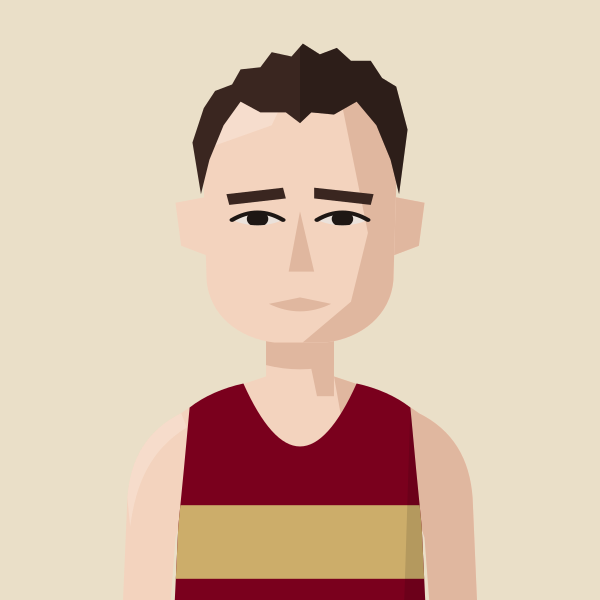
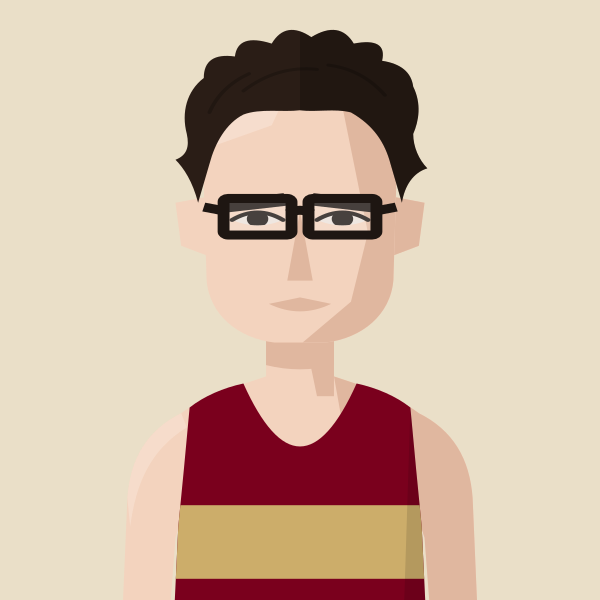
Trevor Hart: redrawn with thick dark hair and thick-rimmed glasses
Claude-Session: https://claude.ai/code/session_01MgmDWhFqnSSnP4iBLKXUZC

Changed region(s): [[0.3, 0.03, 0.72, 0.48]]

diff --git a/files/index.html b/files/index.html
@@ -884,7 +884,7 @@ const portraitFile=(name,club)=>{const k=normalizeNameForCompare(name||'').repla
 const portraitClubOf=(name,clubs)=>{for(const c of clubs||[]){if(c&&portraitFile(name,c))return c;}return null;}; /* first of these clubs we have a portrait for */
 // Athlete header figure: superstar portrait if we have one, else a grey runner in the club vest, else the plain vest icon
 // Changes whenever any portrait changes (set by tools/build_og.py), so browsers fetch fresh images instead of old cached ones
-const PORTRAIT_V='e6ce5789';const PORTRAIT_WOMEN='abbey-brooke,abbie-bulbulian,adele-prince,aimee-hargreaves,aisling-ahern,alex-brown,alex-gandee,alex-marginean,alex-miller,alexa-parker,alexandra-barbour,alice-braham,alice-bridger-morales,alice-crane,alice-martin,alice-reed,alice-smith,alison-purnell,alison-thomson,amelia-pettitt,amy-clements,andrea-barber,anika-schwarze-chintapatla,anna-garnier,anna-garnier-hw,anna-sharp,annabel-hobday,annabelle-hadlow,anne-hegvold,annmarie-seymour,ava-mcandie,becky-briggs,bethan-goddard,bethanie-murray,bethany-brown,betsy-griffiths,billie-mcclosky,camilla-barden,caoimhe-nic-fhogartaigh,carolyne-baxter,catherine-bryson,catherine-eastham,catherine-kandie,cathy-ansell,charlotte-griffiths,chloe-beckett,chloe-tighe,chrissie-wellington,claire-grima,clara-pettit,clare-elms,clare-pauzers,dillan-quinn,dorchie-cockerell,eilidh-hide,elinor-skinner,eliza-grant,elizabeth-apsley,elizabeth-stavreski,ella-fennelly,ella-king-powrie,ella-may-hards,ella-newton,ellen-weir,ellie-brown,ellie-freeden,eloise-bull,emilie-arnoux,emily-barrett,emily-bradley,emily-lowery,emily-robbins,emma-bond,emma-gordon,emma-howsham,emma-lord,emma-rowland,estle-viljoen,evie-warren,felicity-cole,felicity-harrison,felicity-hayward,fi-maddocks,fiona-de-mauny,florence-wiggins,gabby-collison,gabriel-reynolds,gemma-newport,genevieve-blanch,georgia-curry,georgie-bruinvels,georgie-fenn,georgie-furze,georgie-grgec,gina-galbraith,grace-leyland,grace-richardson,hannah-edwards,hannah-english,heather-statham,heather-statham-cc,helena-corbin,helena-keenan,holly-nixon,holly-pan,imogen-mackie,imogen-wolsey,iona-cousland,isabel-bradley,isabel-brinsden,isabel-hodder,isabelle-pickett,jennifer-nandi,jennifer-smith,jess-reed,jess-saunders,jess-winfield,jessica-davies,jessica-lowe,jodie-favell,jon-hobbs,josephine-rhodes,julia-bleasdale,julia-wedmore,juliet-hodder,jurgita-levertaviciute,justine-lynch,karen-fenner,karen-xiang,karina-box,kate-axford,kate-williams,kathy-sharpe,katie-ellen-french,katie-good,katie-snowden,katy-hedgethorne,kitty-shepherd-cross,kristina-popadich,lara-bromilow,lara-mangan,laura-goodson,laura-miles,lauren-major,lea-adamson,lily-newton,lisa-bailey,lisa-thomas,lisa-thomas-hw,lizzie-goldie-scot,louise-cooper,lucy-jones,lucy-macalister,lucy-peters,lydia-blackmore,lydia-gallyer-barnett,maddie-mastrolonardo,maddy-whitman,maeve-kenny,margaret-coogan,martina-conner,mary-james,mary-setyabule,matilde-lomba,megan-gildea,mel-wilkins,mhairi-hall,mimi-corden-lloyd,molly-oconnor,molly-smith,monika-gajek,naomi-lenane,natalie-beadle,natalie-seymour,natasha-lodge,niamh-thompson,nicky-hayes,nicola-cartlidge,nicola-douglas,nikki-haines,nikki-sturzaker,olivia-papaioannou,olivia-stillman,orna-mcginley,pamela-mchutchon,patricia-walker,patrizia-gnoato,penny-oliver,rachel-brown,rebecca-barrow,rebekah-edgar,ruby-carter,ruby-whyte-wilding,ruby-woolfe,sally-urquhart,sally-young,sally-young-slh,sam-whiting,samantha-munday,sarah-astin,sarah-dewhirst,sarah-grover,sarah-hanley,sarah-holt,sarah-murphy,sarah-palmer,sarah-palmer-ran,sarah-riceman,sarah-young,saron-haileselase,serena-carter,sophie-cowper,sophie-harris,sophie-hicks,sophie-tooley,stacey-ward,steph-hewitt,steph-mccall,steph-mccall-cc,steph-mccall-slh,steph-mitchell,suzanne-swaine,suze-spalding,suzie-harvey,suzy-whatmough,teresa-murphy,tilly-heaton,tilly-heaton-bel,tish-jones,vic-cartwright,vicky-clarke,victoria-barthelmess,victoria-buck,vikki-filsell,zoe-doyle,zoe-macdonald,zuzana-nemeckova';const PORTRAIT_MEN='aaron-wilson,abdulla-elsadig,adam-leane,adrian-major,adrien-royer,alan-black,alan-mead,alex-brecker,alex-bruce-littlewood,alex-gutteridge,alex-harris,alex-howard,alex-janiaud,alex-lee,alex-lennon,alex-mills,alex-milne,alex-morales,alex-robinson,alex-yee,alexander-marks,amittai-ben-israel,andrew-cumine,andrew-green,andrew-penney,andrew-perfect,andrew-simms,andrew-warburton,andrius-jaksevicius,andy-coley-maud,andy-coley-maud-cc,andy-fyfe,andy-north,andy-paton,andy-weir,angus-butler,angus-lamb,anisse-ismaili,arlo-ludewick,arne-dumez,arthur-peel,ashley-goncalves,barnaby-day,barry-collins,barry-sawyer,ben-clarke,ben-coughlan,ben-harding,ben-hurley,ben-ireland,ben-millar,ben-paviour,ben-pearce,ben-racle,ben-revill,ben-reynolds,ben-scott,ben-toomer,benedict-whitby,benjamin-hilson,bernie-ford,bill-kerr,bill-weller,bill-weller-wal,bob-harrison,bob-holt,bob-lunnon,bob-rayman,bob-smith,bradley-courtney-pinn,brandon-dewar,brian-gorman,brian-wilder,caleb-hathaway,callum-stewart,cameron-dockerill,cameron-reilly,carl-delaney,charles-herrington,charlie-dabbs,charlie-dickinson,charlie-eastaugh,charlie-manning,charlie-pickett,charlie-rogers,charlie-sandison,charlie-walker,charlie-wyllie,che-compton,chris-busaileh,chris-busaileh-hhh,chris-greenwood,chris-keavey,chris-moss,chris-steer,chris-threadgold,chris-warren,christian-lee,christopher-parker,clive-gilby,clive-shippen,colin-high,colin-pearson,conall-mcnally,conall-whelan,craig-ruddy,dame-dibaba,dan-cliffe,dan-pettitt,daniel-shaw,daniel-wolff,darren-mead,dave-beard,dave-beaver,dave-clarke,dave-glassborow,dave-holt,dave-taylor,david-anderson,david-bowers,david-grima,david-north,david-ogden,david-symons,david-walsh,david-williams,deron-fagan,dick-piotrowski,dimos-evangelidis,dom-nolan,dominic-kiralyfi,don-anderson,don-faircloth,don-maclean,doug-maughan,duncan-rimmer,dylan-evans,dylan-mitchard,ed-brewer,ed-catmur,ed-gibson,ed-mallett,ed-prickett,eddie-herridge,eddie-jodrell,eddie-rolls,edward-chuck,eoin-brady,eoin-molloy,ethan-mccolgan,falilou-kebe,findlay-dyer,finn-johnson,fintan-pearce,frank-tickner,frank-ward,fred-paget,fred-slemeck,freddie-hessian,garret-lee,gary-ribbons,gary-ribbons-ee,gary-staines,gary-staines-bel,gavin-eccles,geoff-biscoe,geoff-jerwood,geoff-north,george-cotton,george-gathercole,george-jackson,george-loxton,george-mallett,george-ogden,gerry-adams,gerry-north,glen-keegan,gordon-pearce,graham-macky,grenville-tuck,harrison-hayman,harry-guttridge,hector-revill,henry-hart,henry-silverstein,hugo-hewitt,huw-lobb,ian-acreman,ian-crowe-wright,ian-ellwood,ian-harkness,indy-barnes,isaac-lutaya,isaac-parker,jack-brotchie,jack-dickson,jack-dormer,jack-hampshire,jack-harrison,jack-hobden,jack-kavanagh,jack-millar,jack-ramm,jack-woods,jacob-brockmann,jake-simmonds,james-bartram,james-blackwood,james-bowler,james-estall,james-ewing,james-fox,james-hancock,james-harvey,james-hoad,james-kelly,james-mcmullan,james-murray,james-nutt,james-preston,james-roberts,james-stockings,james-ward,james-wootton,jamie-crowe,jamie-parkinson,jared-martin,jean-paul-wright,jeff-cunningham,jeremy-dempsey,jermaine-mays,jerry-watson,jim-allchin,jim-rimmer,joe-english,joe-hartley,john-baker,john-bicourt,john-bromley,john-davies,john-dear,john-foss,john-foxall,john-gilbert,john-gladwin,john-hutchins,john-kendall,john-kimaiyo,john-lee,john-lethbridge,john-mather,john-moore,john-roberts,john-sanderson,john-stow,john-sullivan,john-thresher,jon-pepper,jon-pepper-slh,jon-phillips,jon-solly,jonathan-cocker,jonathan-collier,jonathan-cornish,jonathan-ratcliffe,jonathan-tipper,jonny-neville,jonny-scott,jordan-weaver,josh-mitchell,josh-snow,josh-trigwell,jules-gevers,junior-galley,justin-chaston,justin-reid,kassa-tadesse,keith-newton,ken-penney,ken-penney-cro,kevin-nash,kevin-quinn,kevin-sturman,kieran-barnes,kieran-white,knut-hegvold,knut-hegvold-bel,larry-ryan,lawrence-avery,lee-lintern,lewis-lloyd,liam-burthem,lionel-mann,lloyd-kempson,luke-caldwell,mack-downie,malachi-byansi,marcello-bizio,marcelo-fortes,marco-mazzotta,mark-anderson,mark-miles,mark-sinclair,mark-tennyson,mark-waller,martin-dent,martin-duff,martin-lake,martin-lewington,martin-shore,mathew-speed,matt-chaston,matt-jones,matt-wood,matt-yates,matthew-edgar,matthew-houchell,matthew-thomas,matthew-varley,max-bloor,max-heyden,max-milarvie,max-nicholls,michael-baker,michael-mccarthy,mick-woods,mike-beevor,mike-boyle,mike-cummings,mike-farmery,mike-fuller,mike-hayes,mike-kortenray,mike-nouch,mohammed-ismail,monty-hudson,morgan-roberts,nathan-visick,neil-chisholm,neil-phillips,neil-speaight,neil-wilson,nic-lukies,nick-acfield,nick-altmann,nick-bester,nick-bester-hhh,nick-buckle,nick-bundle,nick-goolab,nick-lightfoot,nick-morris,nick-torry,noah-fernandez,norman-stairs,oli-carrington,oliver-carrington,oliver-fox,oliver-reynolds,oliver-young,ollie-foote,ollie-garrod,olly-buck,owen-hind,paddy-roddy,pancho-panchev,paskar-owor,pat-newell,patrick-mcdougall,paul-calver,paul-cheetham,paul-evans,paul-freary,paul-magner,paul-pollock,paul-sanderson,paul-sanderson-wok,pete-carton,pete-gardner,peter-clarke,peter-giles,peter-giles-thh,peter-lighting,phil-carstairs,phil-sanders,phil-sesemann,phil-swinburn,phil-wicks,phil-woodford-smith,raj-paranandi,ralph-street,ranjit-bhatia,ray-foley,reece-edwards,rhys-boorman,rian-mccawley,richard-ashe,richard-giles,richard-henderson,richard-langley,richard-mcdowell,richard-ollington,richard-partridge,richard-sun,richard-ward,rob-armstrong,rob-kelly,rob-tuer,robert-elphick,robert-laing,robert-norville,robert-peacock,robert-sesemann,robin-boon,robin-hudson,roger-alsop,roger-alsop-bel,roger-hackney,ron-clark,ron-linstead,ronan-tanguy,rory-mcmahon,rory-orsborn,ross-braden,ross-christie,rowan-board,rowan-crichton,russell-dessaix-chin,ryan-hickey,ryan-mccallister,sam-bramwell,sam-charlton,sam-gebreselassie,sam-haughian,sam-peters,sam-sommerville,sam-tyas,samuel-dames,samuel-wilcock,sean-cordon,sebastian-anthony,simon-baines,simon-coombes,simon-coppard,simon-fairbrother,simon-holmes,simon-rayner,simon-rayner-hw,simon-wade,simon-wade-hhh,simon-waterhouse,simon-williams,simon-wurr,sonny-nicoll,spencer-barden,stephen-mcleod,stephen-sharp,steve-gardner,steve-jones,steve-smythe,steve-smythe-hhh,stuart-beaney,stuart-major,stuart-major-thh,stuart-mccallum,stuart-paton,terry-booth,thomas-dugre,thomas-gandee,thomas-gardner,thomas-renshaw,tim-alexander,tim-eglen,tim-lawrence,tim-watson,toby-cooke,toby-fletcher,tom-austin,tom-cheetham,tom-conlon,tom-davies,tom-gifford,tom-higgs,tom-jervis,tom-lole,tom-south,tom-thornley,tommy-taylor,tony-binda,tony-fairclough,tony-harran,trevor-hart,valdis-pauzers,valentin-rigori,vic-maughan,wayne-oxborough,will-cockerell,will-lewis,will-marshall,will-scott,will-stockley,william-gardner,yacin-yusuf,zach-nolan';
+const PORTRAIT_V='8fa3172b';const PORTRAIT_WOMEN='abbey-brooke,abbie-bulbulian,adele-prince,aimee-hargreaves,aisling-ahern,alex-brown,alex-gandee,alex-marginean,alex-miller,alexa-parker,alexandra-barbour,alice-braham,alice-bridger-morales,alice-crane,alice-martin,alice-reed,alice-smith,alison-purnell,alison-thomson,amelia-pettitt,amy-clements,andrea-barber,anika-schwarze-chintapatla,anna-garnier,anna-garnier-hw,anna-sharp,annabel-hobday,annabelle-hadlow,anne-hegvold,annmarie-seymour,ava-mcandie,becky-briggs,bethan-goddard,bethanie-murray,bethany-brown,betsy-griffiths,billie-mcclosky,camilla-barden,caoimhe-nic-fhogartaigh,carolyne-baxter,catherine-bryson,catherine-eastham,catherine-kandie,cathy-ansell,charlotte-griffiths,chloe-beckett,chloe-tighe,chrissie-wellington,claire-grima,clara-pettit,clare-elms,clare-pauzers,dillan-quinn,dorchie-cockerell,eilidh-hide,elinor-skinner,eliza-grant,elizabeth-apsley,elizabeth-stavreski,ella-fennelly,ella-king-powrie,ella-may-hards,ella-newton,ellen-weir,ellie-brown,ellie-freeden,eloise-bull,emilie-arnoux,emily-barrett,emily-bradley,emily-lowery,emily-robbins,emma-bond,emma-gordon,emma-howsham,emma-lord,emma-rowland,estle-viljoen,evie-warren,felicity-cole,felicity-harrison,felicity-hayward,fi-maddocks,fiona-de-mauny,florence-wiggins,gabby-collison,gabriel-reynolds,gemma-newport,genevieve-blanch,georgia-curry,georgie-bruinvels,georgie-fenn,georgie-furze,georgie-grgec,gina-galbraith,grace-leyland,grace-richardson,hannah-edwards,hannah-english,heather-statham,heather-statham-cc,helena-corbin,helena-keenan,holly-nixon,holly-pan,imogen-mackie,imogen-wolsey,iona-cousland,isabel-bradley,isabel-brinsden,isabel-hodder,isabelle-pickett,jennifer-nandi,jennifer-smith,jess-reed,jess-saunders,jess-winfield,jessica-davies,jessica-lowe,jodie-favell,jon-hobbs,josephine-rhodes,julia-bleasdale,julia-wedmore,juliet-hodder,jurgita-levertaviciute,justine-lynch,karen-fenner,karen-xiang,karina-box,kate-axford,kate-williams,kathy-sharpe,katie-ellen-french,katie-good,katie-snowden,katy-hedgethorne,kitty-shepherd-cross,kristina-popadich,lara-bromilow,lara-mangan,laura-goodson,laura-miles,lauren-major,lea-adamson,lily-newton,lisa-bailey,lisa-thomas,lisa-thomas-hw,lizzie-goldie-scot,louise-cooper,lucy-jones,lucy-macalister,lucy-peters,lydia-blackmore,lydia-gallyer-barnett,maddie-mastrolonardo,maddy-whitman,maeve-kenny,margaret-coogan,martina-conner,mary-james,mary-setyabule,matilde-lomba,megan-gildea,mel-wilkins,mhairi-hall,mimi-corden-lloyd,molly-oconnor,molly-smith,monika-gajek,naomi-lenane,natalie-beadle,natalie-seymour,natasha-lodge,niamh-thompson,nicky-hayes,nicola-cartlidge,nicola-douglas,nikki-haines,nikki-sturzaker,olivia-papaioannou,olivia-stillman,orna-mcginley,pamela-mchutchon,patricia-walker,patrizia-gnoato,penny-oliver,rachel-brown,rebecca-barrow,rebekah-edgar,ruby-carter,ruby-whyte-wilding,ruby-woolfe,sally-urquhart,sally-young,sally-young-slh,sam-whiting,samantha-munday,sarah-astin,sarah-dewhirst,sarah-grover,sarah-hanley,sarah-holt,sarah-murphy,sarah-palmer,sarah-palmer-ran,sarah-riceman,sarah-young,saron-haileselase,serena-carter,sophie-cowper,sophie-harris,sophie-hicks,sophie-tooley,stacey-ward,steph-hewitt,steph-mccall,steph-mccall-cc,steph-mccall-slh,steph-mitchell,suzanne-swaine,suze-spalding,suzie-harvey,suzy-whatmough,teresa-murphy,tilly-heaton,tilly-heaton-bel,tish-jones,vic-cartwright,vicky-clarke,victoria-barthelmess,victoria-buck,vikki-filsell,zoe-doyle,zoe-macdonald,zuzana-nemeckova';const PORTRAIT_MEN='aaron-wilson,abdulla-elsadig,adam-leane,adrian-major,adrien-royer,alan-black,alan-mead,alex-brecker,alex-bruce-littlewood,alex-gutteridge,alex-harris,alex-howard,alex-janiaud,alex-lee,alex-lennon,alex-mills,alex-milne,alex-morales,alex-robinson,alex-yee,alexander-marks,amittai-ben-israel,andrew-cumine,andrew-green,andrew-penney,andrew-perfect,andrew-simms,andrew-warburton,andrius-jaksevicius,andy-coley-maud,andy-coley-maud-cc,andy-fyfe,andy-north,andy-paton,andy-weir,angus-butler,angus-lamb,anisse-ismaili,arlo-ludewick,arne-dumez,arthur-peel,ashley-goncalves,barnaby-day,barry-collins,barry-sawyer,ben-clarke,ben-coughlan,ben-harding,ben-hurley,ben-ireland,ben-millar,ben-paviour,ben-pearce,ben-racle,ben-revill,ben-reynolds,ben-scott,ben-toomer,benedict-whitby,benjamin-hilson,bernie-ford,bill-kerr,bill-weller,bill-weller-wal,bob-harrison,bob-holt,bob-lunnon,bob-rayman,bob-smith,bradley-courtney-pinn,brandon-dewar,brian-gorman,brian-wilder,caleb-hathaway,callum-stewart,cameron-dockerill,cameron-reilly,carl-delaney,charles-herrington,charlie-dabbs,charlie-dickinson,charlie-eastaugh,charlie-manning,charlie-pickett,charlie-rogers,charlie-sandison,charlie-walker,charlie-wyllie,che-compton,chris-busaileh,chris-busaileh-hhh,chris-greenwood,chris-keavey,chris-moss,chris-steer,chris-threadgold,chris-warren,christian-lee,christopher-parker,clive-gilby,clive-shippen,colin-high,colin-pearson,conall-mcnally,conall-whelan,craig-ruddy,dame-dibaba,dan-cliffe,dan-pettitt,daniel-shaw,daniel-wolff,darren-mead,dave-beard,dave-beaver,dave-clarke,dave-glassborow,dave-holt,dave-taylor,david-anderson,david-bowers,david-grima,david-north,david-ogden,david-symons,david-walsh,david-williams,deron-fagan,dick-piotrowski,dimos-evangelidis,dom-nolan,dominic-kiralyfi,don-anderson,don-faircloth,don-maclean,doug-maughan,duncan-rimmer,dylan-evans,dylan-mitchard,ed-brewer,ed-catmur,ed-gibson,ed-mallett,ed-prickett,eddie-herridge,eddie-jodrell,eddie-rolls,edward-chuck,eoin-brady,eoin-molloy,ethan-mccolgan,falilou-kebe,findlay-dyer,finn-johnson,fintan-pearce,frank-tickner,frank-ward,fred-paget,fred-slemeck,freddie-hessian,garret-lee,gary-ribbons,gary-ribbons-ee,gary-staines,gary-staines-bel,gavin-eccles,geoff-biscoe,geoff-jerwood,geoff-north,george-cotton,george-gathercole,george-jackson,george-loxton,george-mallett,george-ogden,gerry-adams,gerry-north,glen-keegan,gordon-pearce,graham-macky,grenville-tuck,harrison-hayman,harry-guttridge,hector-revill,henry-hart,henry-silverstein,hugo-hewitt,huw-lobb,ian-acreman,ian-crowe-wright,ian-ellwood,ian-harkness,indy-barnes,isaac-lutaya,isaac-parker,jack-brotchie,jack-dickson,jack-dormer,jack-hampshire,jack-harrison,jack-hobden,jack-kavanagh,jack-millar,jack-ramm,jack-woods,jacob-brockmann,jake-simmonds,james-bartram,james-blackwood,james-bowler,james-estall,james-ewing,james-fox,james-hancock,james-harvey,james-hoad,james-kelly,james-mcmullan,james-murray,james-nutt,james-preston,james-roberts,james-stockings,james-ward,james-wootton,jamie-crowe,jamie-parkinson,jared-martin,jean-paul-wright,jeff-cunningham,jeremy-dempsey,jermaine-mays,jerry-watson,jim-allchin,jim-rimmer,joe-english,joe-hartley,john-baker,john-bicourt,john-bromley,john-davies,john-dear,john-foss,john-foxall,john-gilbert,john-gladwin,john-hutchins,john-kendall,john-kimaiyo,john-lee,john-lethbridge,john-mather,john-moore,john-roberts,john-sanderson,john-stow,john-sullivan,john-thresher,jon-pepper,jon-pepper-slh,jon-phillips,jon-solly,jonathan-cocker,jonathan-collier,jonathan-cornish,jonathan-ratcliffe,jonathan-tipper,jonny-neville,jonny-scott,jordan-weaver,josh-mitchell,josh-snow,josh-trigwell,jules-gevers,junior-galley,justin-chaston,justin-reid,kassa-tadesse,keith-newton,ken-penney,ken-penney-cro,kevin-nash,kevin-quinn,kevin-sturman,kieran-barnes,kieran-white,knut-hegvold,knut-hegvold-bel,larry-ryan,lawrence-avery,lee-lintern,lewis-lloyd,liam-burthem,lionel-mann,lloyd-kempson,luke-caldwell,mack-downie,malachi-byansi,marcello-bizio,marcelo-fortes,marco-mazzotta,mark-anderson,mark-miles,mark-sinclair,mark-tennyson,mark-waller,martin-dent,martin-duff,martin-lake,martin-lewington,martin-shore,mathew-speed,matt-chaston,matt-jones,matt-wood,matt-yates,matthew-edgar,matthew-houchell,matthew-thomas,matthew-varley,max-bloor,max-heyden,max-milarvie,max-nicholls,michael-baker,michael-mccarthy,mick-woods,mike-beevor,mike-boyle,mike-cummings,mike-farmery,mike-fuller,mike-hayes,mike-kortenray,mike-nouch,mohammed-ismail,monty-hudson,morgan-roberts,nathan-visick,neil-chisholm,neil-phillips,neil-speaight,neil-wilson,nic-lukies,nick-acfield,nick-altmann,nick-bester,nick-bester-hhh,nick-buckle,nick-bundle,nick-goolab,nick-lightfoot,nick-morris,nick-torry,noah-fernandez,norman-stairs,oli-carrington,oliver-carrington,oliver-fox,oliver-reynolds,oliver-young,ollie-foote,ollie-garrod,olly-buck,owen-hind,paddy-roddy,pancho-panchev,paskar-owor,pat-newell,patrick-mcdougall,paul-calver,paul-cheetham,paul-evans,paul-freary,paul-magner,paul-pollock,paul-sanderson,paul-sanderson-wok,pete-carton,pete-gardner,peter-clarke,peter-giles,peter-giles-thh,peter-lighting,phil-carstairs,phil-sanders,phil-sesemann,phil-swinburn,phil-wicks,phil-woodford-smith,raj-paranandi,ralph-street,ranjit-bhatia,ray-foley,reece-edwards,rhys-boorman,rian-mccawley,richard-ashe,richard-giles,richard-henderson,richard-langley,richard-mcdowell,richard-ollington,richard-partridge,richard-sun,richard-ward,rob-armstrong,rob-kelly,rob-tuer,robert-elphick,robert-laing,robert-norville,robert-peacock,robert-sesemann,robin-boon,robin-hudson,roger-alsop,roger-alsop-bel,roger-hackney,ron-clark,ron-linstead,ronan-tanguy,rory-mcmahon,rory-orsborn,ross-braden,ross-christie,rowan-board,rowan-crichton,russell-dessaix-chin,ryan-hickey,ryan-mccallister,sam-bramwell,sam-charlton,sam-gebreselassie,sam-haughian,sam-peters,sam-sommerville,sam-tyas,samuel-dames,samuel-wilcock,sean-cordon,sebastian-anthony,simon-baines,simon-coombes,simon-coppard,simon-fairbrother,simon-holmes,simon-rayner,simon-rayner-hw,simon-wade,simon-wade-hhh,simon-waterhouse,simon-williams,simon-wurr,sonny-nicoll,spencer-barden,stephen-mcleod,stephen-sharp,steve-gardner,steve-jones,steve-smythe,steve-smythe-hhh,stuart-beaney,stuart-major,stuart-major-thh,stuart-mccallum,stuart-paton,terry-booth,thomas-dugre,thomas-gandee,thomas-gardner,thomas-renshaw,tim-alexander,tim-eglen,tim-lawrence,tim-watson,toby-cooke,toby-fletcher,tom-austin,tom-cheetham,tom-conlon,tom-davies,tom-gifford,tom-higgs,tom-jervis,tom-lole,tom-south,tom-thornley,tommy-taylor,tony-binda,tony-fairclough,tony-harran,trevor-hart,valdis-pauzers,valentin-rigori,vic-maughan,wayne-oxborough,will-cockerell,will-lewis,will-marshall,will-scott,will-stockley,william-gardner,yacin-yusuf,zach-nolan';
 // Runners whose dog pops up on their own profile page (a -dog.svg version of their portrait)
 const PROFILE_DOGS=new Set(['john-sanderson','penny-oliver','james-hancock','angus-butler']);
 const AthletePortrait=({name,club,w,fill,onClick,blink})=>{const[failed,setFailed]=useState(false);const file=portraitFile(name,club);const src0=file?`/portraits/athletes/${file}.svg?v=${PORTRAIT_V}`:PORTRAIT_CLUBS.has(club)?`/portraits/clubs/${club.replace(/\//g,'').replace(/&/g,'and')}.svg?v=${PORTRAIT_V}`:null;const blinkSrc=useBlinkSrc(file?(PROFILE_DOGS.has(file)?`/portraits/athletes/${file}-dog.svg?v=${PORTRAIT_V}`:src0):null,!!blink);const src=blinkSrc||src0;if(!src||failed)return<div onClick={onClick} className={onClick?'cursor-pointer':''}><ClubShield club={club} size={w}/></div>;const h=Math.round(w*148/126),ih=Math.round(w*1.4);if(fill)return<div onClick={onClick} className="cursor-pointer" style={{alignSelf:'stretch',minHeight:h,aspectRatio:'126 / 148',flexShrink:0,position:'relative',borderRadius:4,overflow:'hidden'}}><img src={src} alt={file?`Portrait of ${name.replace(/\s*\([^)]*\)$/,'')}`:`Runner in ${CLUBS[club]?.name||club} vest`} style={{position:'absolute',top:0,left:0,display:'block',width:'100%',height:'auto'}} onError={()=>setFailed(true)}/></div>;return<div style={{width:w,height:h,borderRadius:4,overflow:'hidden',flexShrink:0}}><img src={src} alt={file?`Portrait of ${name.replace(/\s*\([^)]*\)$/,'')}`:`Runner in ${CLUBS[club]?.name||club} vest`} width={w} height={ih} style={{display:'block',width:w,height:ih}} onError={()=>setFailed(true)}/></div>;};

diff --git a/tools/gen_portraits.py b/tools/gen_portraits.py
@@ -2065,4 +2065,7 @@ save("dave-clarke", stretchface(nose(brows(eyes(figure("H/W", skin=1, hair="shag
 # long face, subtle cheek hollows set wide, soft brows
 save("norman-stairs", cheekhollows(nose(softbrows(brows(eyes(figure("BEL", skin=1, hair="floppythin", hair_colour="#6B4A2E", brow_colour="#4A3222", jaw="long"), None, 0), 0, 0, 3), 2.8, 0.4), 1.0, 1.2), inset=6, depth=.5))
 
+# Trevor Hart (BEL), redrawn Oct 2026 (replaces the earlier save): thick dark wavy hair, square jaw, heavy dark brows, thick-rimmed glasses
+save("trevor-hart", nose(thickbrows(brows(eyes(figure("BEL", skin=1, hair="messyvolume", hair_colour="#2A1D16", brow_colour="#1E1612", glasses="square", glasses_col="#1E1612", jaw="square"), None, 0), 0, 0, 3), .8), 1.0, 1.15))
+
 export_site()
